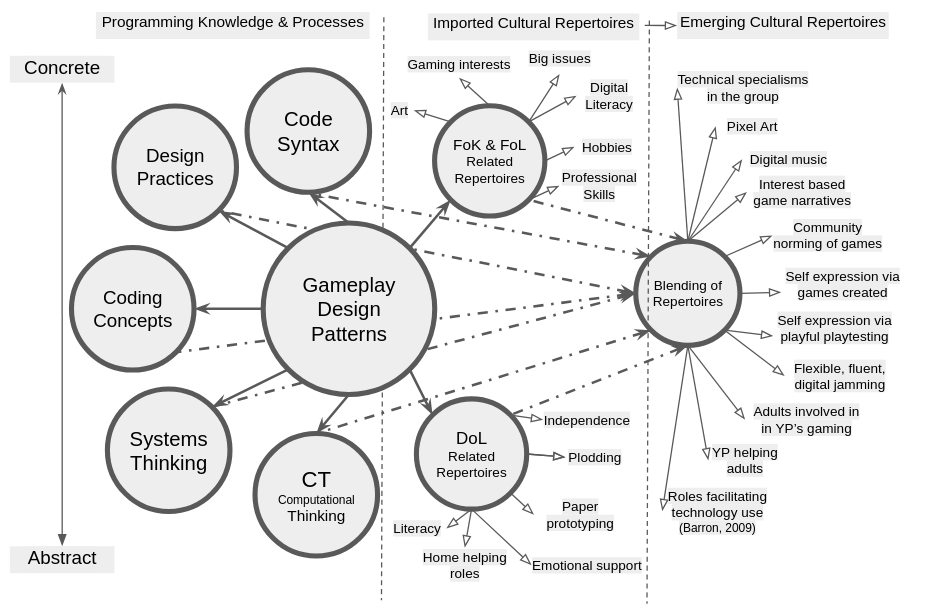
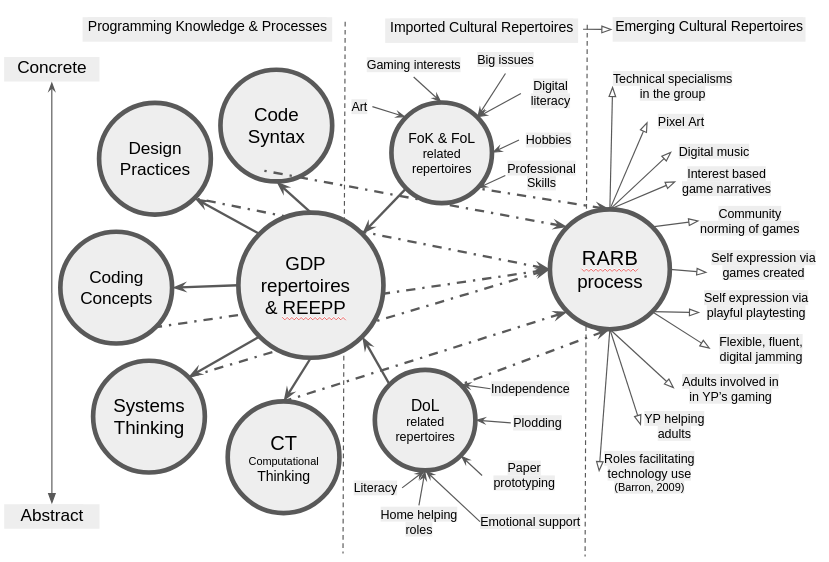
tidying

diff --git a/_posts/thesis_chapters/2025-3-7-Culture.md b/_posts/thesis_chapters/2025-3-7-Culture.md
@@ -173,20 +173,29 @@ This section describes and discusses some of the emergent, flexible and adaptive
 
 PURPOSE & GAPS - ADD IN EACH SECTION.
 
-This chapter deepens the analysis and discussion on RQ2 regarding the potential uses of gameplay design patterns (GDP) and concludes with an analysis and discussion on RQ3, addressing reflections on participant agency. Chapter 6 presented findings on the different uses of gameplay design patterns (GDP) using three foci of analysis: personal, social, and cultural activity. To begin, this chapter discusses these findings in relation to existing relevant research. Part one specifically addresses the complexities of the abstract and concrete dimensions of computing education using a concept from design research that explores the value of gameplay design patterns as an intermediate-level, pedagogical framework.  
+This chapter deepens the analysis and discussion on RQ2 regarding the potential uses of gameplay design patterns (GDP) and concludes with an analysis and discussion on RQ3, addressing reflections on participant agency.
 
-Part two shifts focus away from individual conceptions of knowledge and skill to examine the broader empowerment-related motivations driving this study. The goal here is to address gaps in the existing landscape of CGD&P research via an application of socio-cultural conceptions of agency. To begin this process, I undertake an interpretation of shifting forms of agency grounded in the data explored in the last chapter.
+To begin, this chapter discusses the findings of Chapter 6 on the uses of gameplay design patterns (GDP)  in relation to existing research on programming pedagogies. It specifically addresses the complexities of the abstract and concrete dimensions of computing education using a concept of gameplay design patterns as an gateway construct.  
+
+Part two examines the broader empowerment-related motivations driving this study. The goal here is to address gaps in the existing landscape of CGD&P research via an application of socio-cultural conceptions of agency. To begin this process, I undertake an interpretation of shifting forms of agency grounded in the data explored in the last chapter.
 
 <!-- The purpose here is to ground this discussion of the study's emergent cultural and interpersonal activity within the context of ongoing explorations into theoretical and practical applications of agency in socio-cultural research circles.  -->
 
-To achieve this, I begin with an exploration of the study’s findings in relation to instrumental and transformative agency and the concept of mediation in CHAT. As a way to address cultural development in more depth, particularly the development of learner identities within the research activities, I develop an interpretation of relational agency drawing on Rogoff and Gutiérrez's [@gutierrez_cultural_2003] concept of learner repertoires. To present a holistic picture of the complex cultural activity recorded in the research data, this discussion briefly addresses the wider aspects of the learning design.  However, it concludes with a proposed contribution suggesting that a collection of GDPs can help participants and facilitators as both as component features of emerging game making repertoires and as a orienting framework to increase the inclusive characteristics of the learning environment.  
+To achieve this, I begin with an exploration of the study’s findings in relation to instrumental and transformative agency and the concept of mediation in CHAT.
 
-The final part of this chapter returns to gaps in the research landscape and outlines an applied computing pedagogy structured around the use of GDPs.
+As a way to address cultural development in more depth, particularly the development of learner identities within the research activities, I develop an interpretation of relational agency drawing on Rogoff and Gutiérrez's [@gutierrez_cultural_2003] concept of learner repertoires.
 
-An exploration of metaphors that synthesise significant features of the learning design which influence dimensions of agency.
+To do this the findings of this research are framed within three stages of a described process  of relational agency by repertoire blending.
+
+Following a final section addresses summarises findings for a broad audience.
+Firstly via a table listing the characteristics of the design within
+
+This is followed by an exploration of metaphors that synthesise significant features of the learning design which influence dimensions of agency.
 
 As framework is developed via a utopian and utilitarian approach to design-based research and formative interventions. As such, it communicates insights  for equity and diversity via practical concerns to inform future recommendations for practice.  
 
+
+<!-- However, it concludes with a proposed contribution suggesting that a collection of GDPs can help participants and facilitators as both as component features of emerging game making repertoires and as a orienting framework to increase the inclusive characteristics of the learning environment.   -->
 
 <!-- This chapter has three main sections:
 
@@ -200,8 +209,6 @@ particularly in reference to the building of agency. -->
 <!-- - propose that GDPs provide a suitable way to engage with coding practices partly due to their position between abstract computational concepts and concrete implementations of code structures. -->
 
 <!-- - MOVE TO CONCLUSION? metaphors / frameworks to envisage affordences and particpant agency in CHAT framework. and why this is useful for facilitators and as an accessibel way to share findings. -->
-
-
 
 
 <!-- **more intro material**
@@ -370,13 +377,13 @@ The processes outline above support a position that there is utility for facilit
 
 **Reframing GDPs from intermediate-level concept or gateway concept**
 
-While this research has avoided of explicit teaching of concepts, it has conversely surfaced a mechanism, via the use of GDPs which allows this in an accessible way. I propose that the use of GDPs concepts as a primary object of activity allows them to open up exploration of both abstract and concrete concepts for examples those contained within the learning map (see appendix.learningmap for an example in P4), or more aligned to curricular concerns. This  is represented conceptually in Figure 7.x below.
+While this research has avoided of explicit teaching of concepts, it has conversely surfaced a mechanism, via the use of GDPs which allows this in an accessible way. I propose that the use of GDPs concepts as a primary object of activity allows them to open up exploration of both abstract and concrete concepts for examples those contained within the learning map (see appendix.learningmap for an example in P4), or more aligned to curricular concerns. Thus rather than the interpretation of Eriksson et al. [-@eriksson_using_2019] of game design patterns as _intermediate_ constructs to instead _gateway_ construct to communicate potential utility in opening up exploration of different dimensions of learning.  This  is represented conceptually in Figure 7.x below.
 
 <!-- SIMPLIFY THIS PARAGRAPH OR DROP
 While, the table of uses of GDPs in Chapter 6 focuses primarily on value for learners there are aspects which are relevant to facilitators or teachers in either non-formal or formal settings. One such motivation is the ability for implementation of GDPs to open up exploration of other concepts.  -->
 
 
-![Figure 7.x - GDPs as a gateway concept  ](./Pictures/ch_7_gateway_dia_4.png){width=95%}
+![Figure 7.x - GDPs as a gateway construct opening up the exploration of wider related concepts  ](./Pictures/ch_7_gateway_dia_4.png){width=95%}
 
 <!-- Given this shift to include the utility for participants and the problematisation of the term intermediate, I propose a change in terminology. Instead of an _intermediate framework_,  -->
 
@@ -1238,34 +1245,18 @@ The role of the emerging culture and identity of the idioculture  is developed i
 
 The social and cultural processes described in part two of this chapter, is a valid contribution to the field as a technical pedagogical structure. In line with the summary of gaps in existing research, the process of communicating a holistic understanding of the learning design that evolved in the course of this research is challenging.
 
-The work of Quintana et al contains useful guidelines for checking the suitability of a framework to support science education [@quintana_scaffolding_2004]. In particular guideline x, and y can be identified in the use of GDPS in this research.
+The structural element of the procedural REEPP framework could be augmented with the socio-cultural elements explored in part two. To do this, I could propose logical acronym: collaborative, culturally responsive, remix enabled, elective, progressive pattern patching (CCRREEPPP). While logical, I have concerns that it may be perceived as a bit daft. Instead, I will concisely describe the relationship between REEPP, RARB and the use of GDPs as a gateway concepts. The structural scaffolding provided by the REEPP framework facilitates the initial stage of the RARB process where GDPs play a key role as a gateway to abstract / concrete concepts and practices which are available to be blended with imported participant repertoires resulting in new repertoires manifested as relational expertise and relational agency in a new community of learners. While this is difficult to represent in a figure, I have attempted to do so in Figure 7.x, focused on combining the role of GDPs as a gateway concept to facilitate wider remediation of diverse imported and emerging repertoires.
+
+![Figure 7.x - A graphical representation of the inter-related elements of the  of RARB  ](./Pictures/ch_7_repertoires_dia_2.png){width=100%}
+
+There are some additions to the previous representation in Figure 7.x of GDPs as a gateway construct. The REEPP structural framework is added as a foundation of the pedagogy. The gateway role of GDPs to access more personal concepts and practices remains, but more social repertoires are represented within the initial stage of RARB (labelled importing of cultural repertoires). The process of relational agency by repertoire blending (RARB) is represented as a nexus of activity where re-mediation of other repertoires occurs and emerging, blended repertoires are represented as a product of that process. Finally in this version as a challenge the convention of placing abstract dimension at the top of the illustration, I reverse the polarity aligning with the CHAT concept of _rising to the concrete_.
+
+Recommendations on how this representation may be helpful for different stakeholders are present in a section in the concluding Chapter 8.
 
 
-The structural element of the proceedural REEPP framework could be augmented with the socio-cultural elements explored in part two. To do this, I could propose logical acronym: collaborative, culturally responsive, remix enabled, elective, progressive pattern patching (CCRREEPPP). While logical, I have concerns that it may be perceived as a bit daft. Instead, I will concisely describe the relationship between REEPP, RARB and the use of GDPs as a gateway concepts. The structural scaffolding provided by the REEPP framework facilitates the initial stage of the RARB process where GDPs play a key role as a gateway to abstract / concrete concepts and practices which are available to be blended with imported participant repertoires resulting in new repertoires manifested as relational expertise and relational agency in a new community of learners. While this is difficult to represent in a figure, I have attempted to do so in Figure 7.x, focused on combining the role of GDPs as a gateway concept to facilitate wider remediation of diverse imported and emerging repertoires. 
 
-![Figure 7.x - An overview of the position of GDPs within a process of RARB  ](./Pictures/ch_7_repertoires_dia_2.png){width=100%}
-
-
-I propose that providing a menu of GDPs can, as with accessing more abstract concepts, act as a framework to facilitate to process of development of social and cultural repertoires of practice.
-
-I suggest  a change in terminology. Instead of interpreting design patterns here as _intermediate_ constructs, I propose the term _gateway pedagogical framework_ to communicate potential utility in opening up exploration of different dimensions of learning.
-
-The shift from intermediate to gateway also addresses the issue of how to present the dimensions of abstract and concrete. Abstract concepts are often positioned as higher in a spacial representation. This is present in semantic profiling diagrams above, in y example, and even the phrase top-down planning from Papert and Turkle in their challenging of this privileging of abstract approaches communicates an implied superiority of approach. By way of contrast, the Mark's phrase _rising to the concrete_ reverses this polarity. Similarly, as a small attempt to challenge this convention I reverse the polarity placing concrete dimension at the top of the illustration.
-
-
-#### Summary of the potential utility of GDPs for wider stakeholders - MOVE?
-
-The evidence and examples surfaced in Chapter 6 and the previous section support a view that the GDPs can form the basis of productive research and pedagogical frameworks.
-
-While the work of Eriksson et al. explored the utility of GDP concepts in several dimensions the focus was on utility for the research community. Instead this research  outlines potential uses of GDPs participants and facilitators/ learning designers.
-
-The value **for facilitators** is best explored by returning to the narrative of RARB in this research above.
-
-Addressing utility **for participants**, in computing education, design pattern-based approaches have benefits in making complex problems more modular and concrete [@muller_almost_2004-1; @waite_teaching_2021].
-
-GDPs are particularly helpful in participant goal formation, as explored in Chapter 6 in the sections on ideation and prioritisation. GDPs also help with the division of labour between collaborators, which is relevant here as when tackling more abstract processes, concepts, and terminology, these roles are often taken on by a more competent partner.
-
-
+<!-- I propose that providing a menu of GDPs can, as with accessing more abstract concepts, act as a framework to facilitate to process of development of social and cultural repertoires of practice. -->
+<!-- Abstract concepts are often positioned as higher in a spacial representation. This is present in semantic profiling diagrams above, in y example, and even the phrase top-down planning from Papert and Turkle in their challenging of this privileging of abstract approaches communicates an implied superiority of approach. By way of contrast, the Mark's  reverses this polarity. Similarly, -->
 
 <!-- - Addressing gaps in the research - The work of Resnick is convincing but lacks theoretical foundations as Papert's ideas were before their time. It is of value to align them with more contemporary socio-cultural conceptions, in particular the lens of agency.
 - Also, as agency is seen beyond a individualised property, as participation in a community - as such computational fluency should also be challenged as a individualised approach.
@@ -1285,10 +1276,21 @@ GDPs are particularly helpful in participant goal formation, as explored in Chap
 NOTE - As this chapter is ongoing this conclusion is in draft form. Feedback on what to include in this chapter conclusion is welcome.
 
 
+- the place of this chapter in the narrative of the thesis
+- the limitations or questions arising that may be addressed in the following chapter.
+
 ### Narrative recap on how the RQs have been answered in each section?
 
-  - the place of this chapter in the narrative of the thesis
-- the limitations or questions arising that may be addressed in the following chapter.
+
+This section quickly returns to the RQs to rexamine to how they have been answered, dealing first with the sub questions before returning to the principle RQ.
+
+RQ1 was addressed via a discussion in Chapter 2, developed in relation to the specifics of the research process in Chapter 5.
+
+RQ2, was addressed by findings in Chapter 6 and has been discussed in more depth in this chapter culminating in the description of the hybrid pedagogical process outlined above.  
+
+MOVE THIS BIT OR SUMMARISE MORE
+GDPs are particularly helpful in participant goal formation, as explored in Chapter 6 in the sections on ideation and prioritisation. GDPs also help with the division of labour between collaborators, which is relevant here as when tackling more abstract processes, concepts, and terminology, these roles are often taken on by a more competent partner.
+
 
 **limitations/ further work**
 
@@ -1296,7 +1298,6 @@ This work invites exploration of related issues of
 - inclusion as a lens
 
 The final chapters aims to address this with  recommendations for facilitators and researchers. The scope of the applicability is addressed as the findings of this thesis can inform the wider debate of how to best support project based learning in wider domains. Specifically the use of concrete design frameworks and step-based iterative project in scaffolding PBL.
-
 
 
 <!-- Chapter four outlined a design narrative where tools were chosen and adapted by myself and Participants in response to local context. Chapter five explored the emerging organisational unit of GDPs, and how they were used as meditational strategies.   -->

diff --git a/_posts/thesis_chapters/2025-3-2-Literature_review.md b/_posts/thesis_chapters/2025-3-2-Literature_review.md
@@ -442,7 +442,18 @@ To compare with learning in more formal structured, and more naturalistic learni
 
 ## Pedagogies to support game making via coding
 
-One of the main themes of this review is to explore the pedagogies available to support coding, particularly in relation to Research Question 1 (RQ1). In the context of activity theory, pedagogy can be framed as pedagogical tools and processes, functioning as a type of mediational strategy. The following discussion focuses on pedagogies that are especially relevant to digital making, specifically game making, in informal, real-life (as opposed to online) communities. Denner's [-@denner_does_2019] systematic review of game making studies, identifies three main pedagogical streams: design frameworks (Design-Build-Test), step-based pedagogies, and social approaches. This section will broadly follow these streams. First, I will review design thinking approaches and project-based learning. Next, I will outline pedagogies centred around scaffolding game production through progressive steps, such as the Use, Modify, and Create (UMC) framework. Finally, I will examine the social and cultural aspects of coding clubs and informal programmes that serve as venues for CGD&P.
+One of the main themes of this review is to explore the pedagogies available to support coding, particularly in relation to Research Question 1 (RQ1). In the context of activity theory, pedagogy can be framed as pedagogical tools and processes, functioning as a type of mediational strategy. The following discussion focuses on pedagogies that are especially relevant to digital making, specifically game making, in informal, real-life (as opposed to online) communities. Denner's [-@denner_does_2019] systematic review of game making studies, identifies three main pedagogical streams: design frameworks (Design-Build-Test), step-based pedagogies, and social approaches.
+
+
+This section will broadly follow these streams. First, I will review design thinking approaches and project-based learning. Next, I will outline pedagogies centred around scaffolding game production through progressive steps, such as the Use, Modify, and Create (UMC) framework. Finally, I will examine the social and cultural aspects of coding clubs and informal programmes that serve as venues for CGD&P.
+
+
+### On the process of creating frameworks and pedagogies.
+
+The work of Quintana et al contains useful guidelines for checking the suitability of a framework to support science education [@quintana_scaffolding_2004]. In particular guideline x, and y can be identified in the use of GDPS in this research.
+
+NOTE - Is this helpful for the final section
+
 
 <!-- ## Project-based learning / Social approach / Communities of Learners.
 
@@ -769,11 +780,12 @@ The concept of computational design patterns is well explored in the professiona
 
 Research in this area points to challenges of teaching the abstract nature of traditionally shared design patterns related to object oriented coding languages but points to visual methods and games as promising tactics [@azimullah_evaluating_2020; @da_cruz_silva_fostering_2019]
 
-### Using design patterns
 
-
+### Using design patterns in education
 
 <!-- Indeed players may become very familiar with these GDPs as they build their literacy as players about what they like or dislike about game they play.  -->
+
+Design pattern-based approaches have benefits in making complex problems more modular and concrete [@muller_almost_2004-1; @waite_teaching_2021].
 
 
 In the  work of Werner et al [-@werner2014using], game mechanics are seen as a higher end of a computational sophistication framework, due to skill needed to assemble the component elements.  
@@ -931,7 +943,7 @@ The process of curating patterns involve selected only 14 from a list of over 10
 The work explored the utility of GDP concepts in several dimensions the focus as a lingua franca between researchers and participants; to aid the framing of analysis; and to inspire participants. However, the focus was primarily benefits to  researchers, advancing GDPs as a form of intermediate knowledge as a contribution to the field of child computer interaction research (CCI).
 As such the potential for participants  was under explored and the potential for teachers not explored at all. Also participants did not modify computer code leaving a gap in research concerning addressing the utility of a collection of GDPs to support novice programmers.
 
-<!-- They described the utility of games design patterns as a _lingua franca_ for game developers. Other benefits cited are GDP as a source of creative inspiration and as an aid to problem-solving. -->
+<!-- They described the utility of games design patterns as a _lingua franca_ for game developers. Other benefits cited are GDP as a source  creative inspiration and as an aid to problem-solving. -->
 
 
 ## Programmes working to address challenge
@@ -1055,6 +1067,7 @@ A wider questions, how to operationalise this broader approach of connected lear
 This line of thought invites a turn to address to gaps in research / problem statement.
 
 Also explored in SDBEs
+
 
 
 
